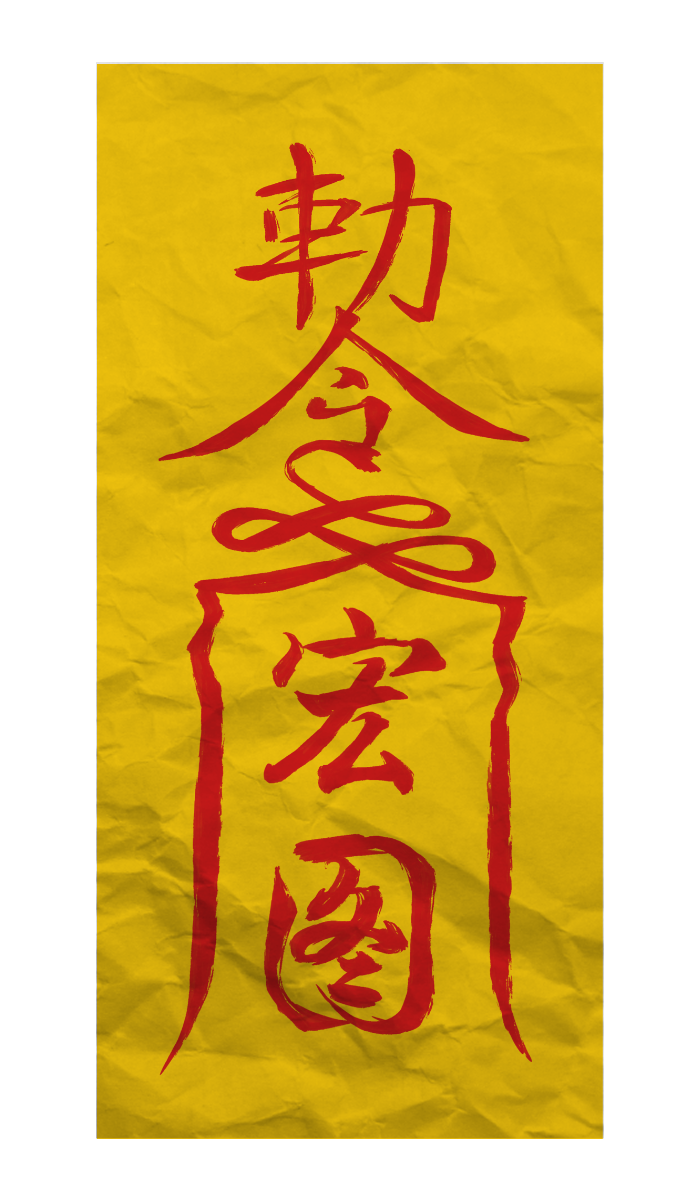
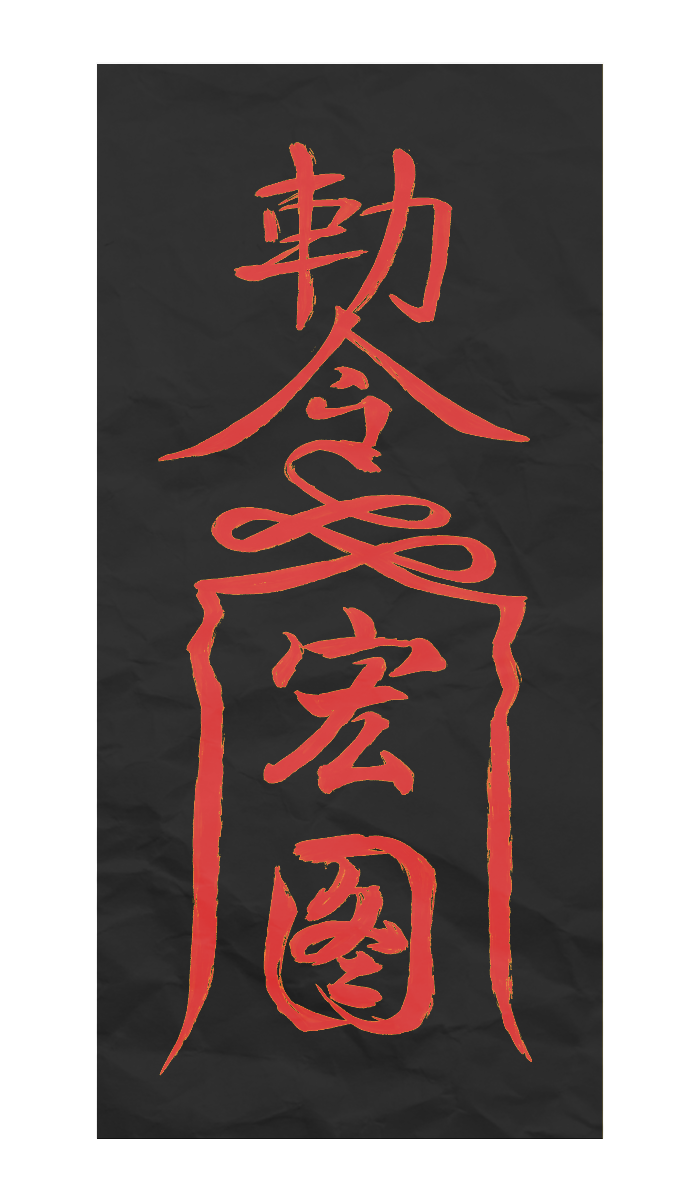
Full game created, untested.

diff --git a/game/src/data/missions.js b/game/src/data/missions.js
@@ -134,8 +134,8 @@ export const missions = {
       },
     ],
     collectible: {
-      id: 'rogue-cultivator-trace',
-      name: 'Rogue Cultivator Trace',
+      id: 'zayne-trace',
+      name: 'Zayne',
       image: '/images/zayne_talisman.png',
     },
     wrapUpDialogue: [
@@ -161,32 +161,78 @@ export const missions = {
     id: 'mission-3',
     title: 'National Museum',
     required: true,
-    backgroundImage: DEFAULT_MISSION_BACKGROUND,
+    backgroundImage: '/images/odyssea.png',
     collectionToken: '9f0c63e2a417b5d8c3296e1074fa2b51',
     dialogue: [
-      { text: 'A chill wind stirs around a distant gate.' },
+      { text: [{text: "What a riot of sound and color! My old teachers would be so jealous that 'bringing history to life' has become reality. I did always sleep through their classes...", italic: true},], },
+      { text: "When I learned that this soul fragment was in a history museum, I expected it to be the elegant and cultured part of myself, but I'm starting to have my doubts." },
+      { text: "A group of children (and some adults) jump around the undersea replica environment, watching ripples form and fish swim by." },
       {
         speaker: 'MOS Officer',
         portrait: MOS_OFFICER_PORTRAIT,
-        text: 'The Ghost Gate seal is weakening. Something may have escaped.',
+        text: 'My Lady, quick! Follow the red fish!',
+      },
+      { text: [{text: "I turn to see a flash of red disappear around the corner and bolt after it, but find nothing around the corner, just a " },
+                {text: "series of shelves stocked with art and merchandise.", bold: true},]
+      },
+      { text: "Suddenly, a yell comes from above me just as I find myself with a faceful of fluffy rust-red fur." },
+      {
+        speaker: '???',
+        portrait: RAFAYEL_PORTRAIT,
+        text: 'I was just taking Reddie for a swim and lost my grip!',
+        centerImage: '/images/rafayel.png',
+      },
+      { text: "The little ball of fur in my arms pouts in embarrassment as I slowly set him down on a bench." },
+      { text: "He is especially fashionable, even for a nine-tailed fox, with a stylized 'Rafayel' emblazoned across his lapels." },
+      { text: [{text: "His name is probably Rafayel... let's poke him a little bit.", italic: true},], },
+      { text: [{text: "'So, Rafayel, you... fell off the "},
+               {text: "high wall art installation", bold:true },
+               {text: "? What were you doing up there anyway?'" },],
+      },
+      {
+        speaker: 'Rafayel',
+        portrait: RAFAYEL_PORTRAIT,
+        text: "Miss guardian angel! You remember me after all? I've been waiting 800 years...",
+      },
+      {
+        speaker: 'MOS Officer',
+        portrait: MOS_OFFICER_PORTRAIT,
+        text: "Actually it's been 1000 years",
+      },
+      {
+        speaker: 'Rafayel',
+        portrait: RAFAYEL_PORTRAIT,
+        text: [{text: "Details schmetails. ", italic: true},
+               {text: "Miss guardian angel has a beautiful and artistic soul, I have treasured it these eigh- one thousand years."}],
+      },
+      {
+        speaker: 'Rafayel',
+        portrait: RAFAYEL_PORTRAIT,
+        text: "But it's time to give it back now.",
       },
       {
         type: 'scan-prompt',
-        speaker: 'MOS Officer',
-        portrait: MOS_OFFICER_PORTRAIT,
-        text: 'Search for a fragment of the damaged seal.',
+        speaker: 'Rafayel',
+        portrait: RAFAYEL_PORTRAIT,
+        text: 'This talisman is a symbol of our connection, keep it safe in your Soulhunter.',
       },
     ],
     collectible: {
-      id: 'ghost-gate-seal-fragment',
-      name: 'Ghost Gate Seal Fragment',
-      image: null,
+      id: 'rafayel-trace',
+      name: 'Rafayel',
+      image: '/images/rafayel_talisman.png',
     },
     wrapUpDialogue: [
       {
+        speaker: 'Rafayel',
+        portrait: RAFAYEL_PORTRAIT,
+        text: "Summon me any time Miss guardian angel! Catch ya later!",
+        dismissCenterImage: true,
+      },
+      {
         speaker: 'MOS Officer',
         portrait: MOS_OFFICER_PORTRAIT,
-        text: 'This fragment will help us understand how the seal was damaged.',
+        text: "This officer is glad to see that you have such a free spirit My Lady. The powers of imagination will no doubt speed your soul's recovery.",
       },
     ],
   },
@@ -195,32 +241,77 @@ export const missions = {
     id: 'mission-4',
     title: 'Raffles Hotel',
     required: true,
-    backgroundImage: DEFAULT_MISSION_BACKGROUND,
+    backgroundImage: '/images/hotel.png',
     collectionToken: '3a7e1d94c82b605f1b39e4a06d5c728f',
     dialogue: [
-      { text: 'The forest floor is covered in dew.' },
+      { text: [{text: "The lilting notes of an instrument drift across the hall from the second storey drawing room, its sound both like and unlike any "},
+               {text: "qin ", italic: true},
+               {text: "I had ever heard."},
+      ], },
+      { text: "'Officer Sprite, what is that instrument?'" },
       {
         speaker: 'MOS Officer',
         portrait: MOS_OFFICER_PORTRAIT,
-        text: 'A healer needs a rare herb that grows somewhere nearby.',
+        text: [{text: "It is called a "},
+               {text: "piano ", bold: true},
+               {text: "my Lady."},
+      ],
+      },
+      { text: "The music draws me to it, and before long, I hear the sharp notes of the percussive strings accompanied by low, mellow vocals." },
+      { text: [{text: "Is the singing meant to be of a different pitch from the instrument? Perhaps music styles have changed over time...", italic: true},], },
+      { text: [{text: "Approaching from behind the large wooden lid of the "},
+               {text: "piano", bold: true},
+               {text: ", I find that there is no musician seated there."},
+      ], },
+      { text: "Only a hint of reddish-black tendrils of smoke across the instrument's surface, making the tune feel more ghostly than it sounded." },
+      { text: "My shoe snags on a rug and abruptly the music stops, the silence suddenly deafening." },
+      {
+        speaker: '???',
+        portrait: SYLUS_PORTRAIT,
+        text: "Hello sweetie.",
+      },
+      { text: [{text: "How did they get behind me?!", italic: true},], },
+      { text: [{text: "The presence over my shoulder narrowly avoids my silver throwing needle, and lazily settles his tiny form on the lid of the "},
+               {text: "piano", bold:true},
+               {text: ", dragon tail lightly swinging against the wood."},], 
+        centerImage: '/images/sylus.png',},
+      { text: [{text: "Sylus", italic:true},
+               {text: ", my soul supplies, as my spiritual aura fights against his for dominance."},], },
+      {
+        speaker: 'Sylus',
+        portrait: SYLUS_PORTRAIT,
+        text: "Your hunting instincts are as sharp as ever, kitten. Though that is to be expected, as we are of one soul.",
       },
       {
+        speaker: 'Sylus',
+        portrait: SYLUS_PORTRAIT,
+        text: "You want the soul back? You'll have to come and get it.",
+      },
+      { text: "He smirks playfully, waving a talisman imbued with the power of a soul fragment as we tussle until I eventually emerge victorious." },
+      {
         type: 'scan-prompt',
-        speaker: 'MOS Officer',
-        portrait: MOS_OFFICER_PORTRAIT,
-        text: 'Look for a sample of the herb and bring it back.',
+        text: "I let the Soulhunter absorb the soul fragment's power while I inspect the unusual talisman.",
       },
     ],
     collectible: {
-      id: 'moonlit-herb',
-      name: 'Moonlit Herb',
-      image: null,
+      id: 'sylus-trace',
+      name: 'Sylus',
+      image: '/images/sylus_talisman.png',
     },
     wrapUpDialogue: [
       {
+        speaker: 'Sylus',
+        portrait: SYLUS_PORTRAIT,
+        text: "That's the black unlimited-use talisman sweetie, use it to summon me any time, as much as you want.",
+        centerImage: '/images/sylus.png',
+      },
+      { text: "'Officer Sprite? He's gone, you can come out now!'",
+        dismissCenterImage: true,
+      },
+      {
         speaker: 'MOS Officer',
         portrait: MOS_OFFICER_PORTRAIT,
-        text: 'This should be enough for the healer to begin their remedy.',
+        text: 'My Lady, I knew you were a hero on the battlefield, but remind me never to get on your bad side...',
       },
     ],
   },
@@ -229,69 +320,132 @@ export const missions = {
     id: 'mission-5',
     title: 'Singapore Flyer',
     required: true,
-    backgroundImage: DEFAULT_MISSION_BACKGROUND,
+    backgroundImage: '/images/flyer.png',
     collectionToken: 'c51a8e3f72d406b91e5c2a8f3d714b60',
     dialogue: [
-      { text: 'A faint shimmer crosses the sect boundary.' },
+      { text: [{text: "It's. So. HIGH! I'd never been able to enjoy a relaxing view from this high up before. The bustle of the futuristic city looks so small from up here.", italic: true},], },
       {
         speaker: 'MOS Officer',
         portrait: MOS_OFFICER_PORTRAIT,
-        text: 'There is a crack in the barrier. Its source is somewhere nearby.',
+        text: 'My Lady, you have chosen a tricky soul fragment to track.',
+      },
+      {
+        speaker: 'MOS Officer',
+        portrait: MOS_OFFICER_PORTRAIT,
+        text: 'Our records show that it has been detected roaming both the skies above and the ground below unhindered.',
+      },
+      { text: "'And yet, Officer Sprite, this one somehow feels like it has never been apart, always watching over me.'" },
+      { text: [{text: "I continue gazing out of the brightly-lit clear capsule, feeling like a "},
+               {text: "lantern swinging high above the ground.", bold: true},], },
+      { text: "I turn to face the Officer, only to find the view in front of me blocked by a very large, very bare chest.",
+        centerImage: '/images/caleb.png',
+       },
+      { text: [{text: "!!!!", italic: true},], },
+      { text: [{text: "This armour, this physique... it is unmistakably Caleb, lord of the Netherworld. Also, Officer Sprite's boss.", italic: true},], },
+      {
+        speaker: 'MOS Officer',
+        portrait: MOS_OFFICER_PORTRAIT,
+        text: 'My Lord!!',
+      },
+      { text: "'Aren't you Caleb, lord of the Netherworld? What are you doing so high up?", },
+      { text: "He shrugs and gives me a gentle smile.", },
+      {
+        speaker: 'Caleb',
+        portrait: CALEB_PORTRAIT,
+        text: "I've been been searching for you for a long time.",
+      },
+      {
+        speaker: 'Caleb',
+        portrait: CALEB_PORTRAIT,
+        text: "It recently occurred to me that being up here would give me a birdseye view of the ground so it'll be easier for me to find you. Guess it worked!",
       },
       {
         type: 'scan-prompt',
-        speaker: 'MOS Officer',
-        portrait: MOS_OFFICER_PORTRAIT,
-        text: 'Search for a fragment of the barrier’s energy.',
+        text: 'He hands me a talisman containing my soul fragment and watches as I absorb it through the Soulhunter',
       },
     ],
     collectible: {
-      id: 'barrier-energy-fragment',
-      name: 'Barrier Energy Fragment',
-      image: null,
+      id: 'caleb-trace',
+      name: 'Caleb',
+      image: '/images/caleb_talisman.png',
     },
     wrapUpDialogue: [
       {
-        speaker: 'MOS Officer',
-        portrait: MOS_OFFICER_PORTRAIT,
-        text: 'With this fragment, we can begin repairing the barrier.',
+        speaker: 'Caleb',
+        portrait: CALEB_PORTRAIT,
+        text: "You won't have to find me again as long as you have this talisman. Use it anytime and I'll appear right by your side, even if it's only for something small like braiding your hair.",
+        centerImage: '/images/caleb.png',
       },
+      { text: "He disappears in a whirl of shadows, but despite the lingering coldness, my soul feels surprisingly warm.",
+        dismissCenterImage: true,
+      },
+      { text: "Officer Sprite, despite being just a floating ball of flame, looks like he has a thousand questions to ask about my relationship with his boss.", },
+      { text: "I'm not sure even I can answer them.", },
     ],
   },
 
   'mission-6': {
     id: 'mission-6',
-    title: 'The Soul’s Calling',
+    title: 'The Trapped Soul',
     required: false,
-    backgroundImage: DEFAULT_MISSION_BACKGROUND,
+    backgroundImage: "/images/sg_skyline.png",
     collectionToken: '7c4e92a1d6b8305f0a3e7d9c2b6148f5',
     dialogue: [
       {
-        text: 'As you hold the completed soul, you feel a sudden tug pull through it.',
+        text: [{text: "The healers are happy that your soul will heal well. Just as you're getting ready to absorb your newly-collected soul fragments, you feel an inexorable ",},
+                {text: "tug.", italic:true},],
+      },
+      {
+        text: [{text: "I don't think this is part of the normal soul healing process. We should find out what it's trying to tell us.", italic:true},],
       },
       {
         speaker: 'MOS Officer',
         portrait: MOS_OFFICER_PORTRAIT,
-        text: 'Something is calling to the soul from beyond the booth.',
+        text: 'I see you sense it as well. We should investigate.',
       },
+      { text: "As we follow the tugs on the soul, they get more insistent. Perhaps, more hopeful." },
+      { text: "We find ourselves at the Night Safari, navigating the quiet trails of tropical mammals.",
+        backgroundImage: '/images/nightsafari.png',
+      },
+      {
+        text: [{text: "I think I hear howling. It's faint, but unquestionably in the direction of the pull on my soul.", italic:true},],
+      },
+      { text: "There is a faint presence at the spot where the tugging stops." },
+      { text: [{text: "It is an abandoned storage shed, "},
+        {text: "furniture covered in cloths and layered with spider webs.", bold:true},], },      
+      { text: "Officer Sprite and I pour mana in its direction and slowly, a ghostly figure flickers into existence. He seems to have trouble speaking.",
+        centerImage: '/images/valko-trapped.png',
+      },
+      {
+        speaker: '???',
+        portrait: VALKO_PORTRAIT,
+        text: "You're... really here? I've been... imprisoned here for so long... I was going to give up. Thank you for rescuing me.",
+      },
+      { text: "He seems to grow weaker even as we pour more mana into him. He slowly starts losing his form." },
       {
         type: 'scan-prompt',
         speaker: 'MOS Officer',
         portrait: MOS_OFFICER_PORTRAIT,
-        text: 'Follow that pull and search for its source.',
+        text: "Quick! Store his soul in the Soulhunter and we'll bring him to the healers.",
       },
     ],
     collectible: {
-      id: 'soul-calling-trace',
-      name: 'Soul’s Calling Trace',
-      image: null,
+      id: 'valko-trace',
+      name: 'Trapped Soul',
+      image: '/images/willowisp-green.png',
     },
     wrapUpDialogue: [
       {
         speaker: 'MOS Officer',
         portrait: MOS_OFFICER_PORTRAIT,
-        text: 'We have found a trace of what called to the soul. We must investigate further.',
+        text: 'Let us make haste and return him to the Ministry healers.',
       },
+      {
+        speaker: 'MOS Officer',
+        portrait: MOS_OFFICER_PORTRAIT,
+        text: 'He will need a shrine and the prayer of devotees to replenish his spiritual essence, or he risks fading away forever.',
+      },
+      { text: "(Return to the Event Prize Booth)" },
     ],
   },
 }

diff --git a/game/src/data/openingStory.js b/game/src/data/openingStory.js
@@ -4,7 +4,6 @@ import {
   REQUIRED_MISSION_IDS,
 } from './missions'
 
-const BAI_WUCHANG_PORTRAIT = '/images/baiwuchang_pfp.png'
 const MOS_OFFICER_PORTRAIT = '/images/mos-officer.png'
 
 function getMissionChoices(gameState) {
@@ -25,7 +24,7 @@ const openingStoryBeforeChoices = [
   ],
   },
   {text: [
-    {text: 'What is this floating flame?', italic: true},
+    {text: 'What is this floating sprite?', italic: true},
   ],
   },
   {
@@ -148,13 +147,18 @@ function createFiveMissionEnding() {
     {
       speaker: 'MOS Officer',
       portrait: MOS_OFFICER_PORTRAIT,
-      text: 'The completed soul feels whole and steady at last.',
+      text: 'The Soulhunter is processing the soul fusion.',
+    },
+    {
+      speaker: 'MOS Officer',
+      portrait: MOS_OFFICER_PORTRAIT,
+      text: 'Approach the spiritual healers to ensure your soul heals with balance.',
     },
     {
       type: 'final-instructions',
       speaker: 'MOS Officer',
       portrait: MOS_OFFICER_PORTRAIT,
-      text: 'Approach the spiritual healers at the booth to ensure your soul is complete.',
+      text: '(Go to the Event Prize Booth)',
     },
   ]
 }

diff --git a/game/src/data/validTickets.js b/game/src/data/validTickets.js
@@ -1,4 +1,5 @@
 export const VALID_TICKET_NUMBERS = [
+    'TEAMCAFE',
     'SAZS5R',
     'QMXKUP',
     'C428S5',
